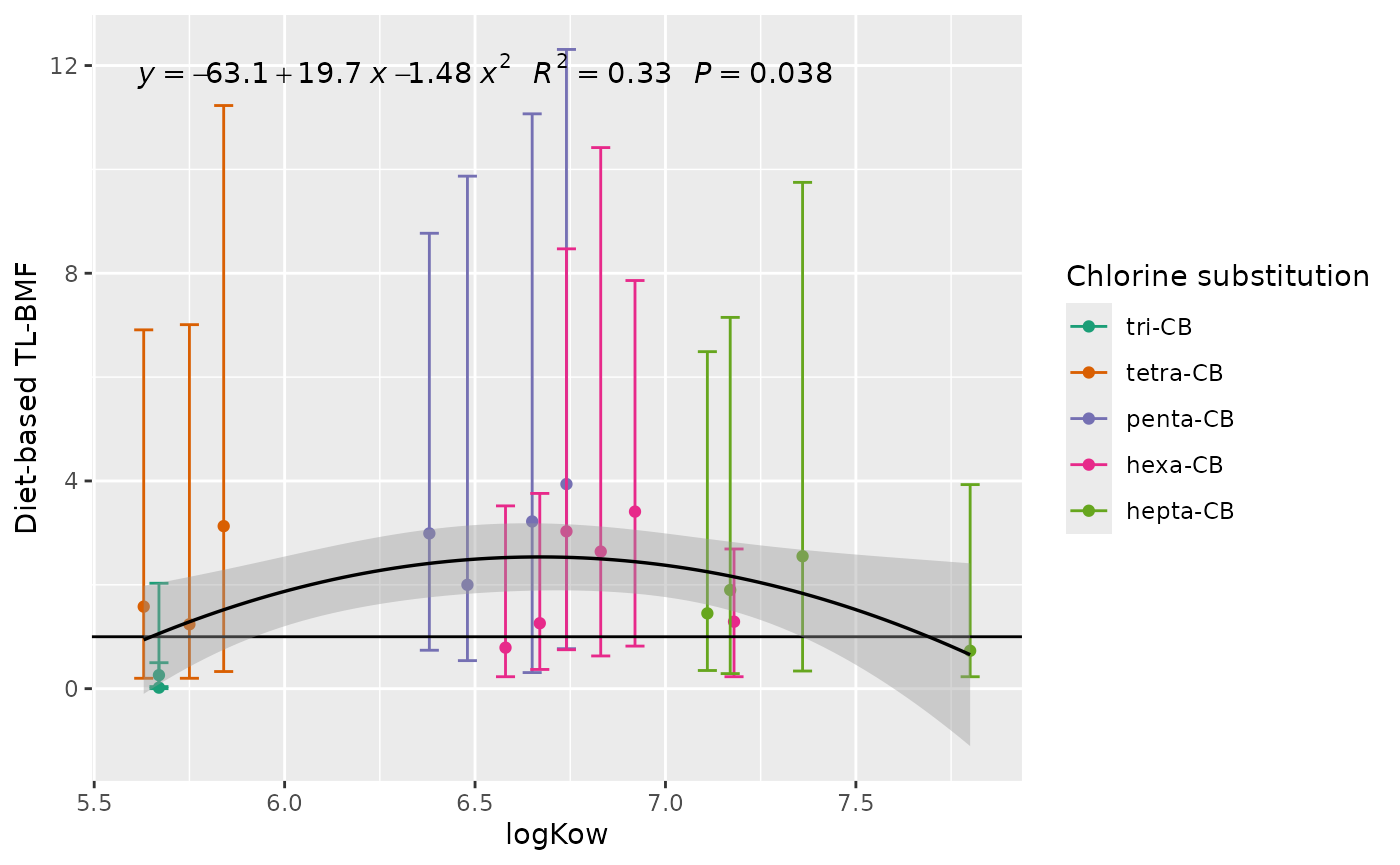
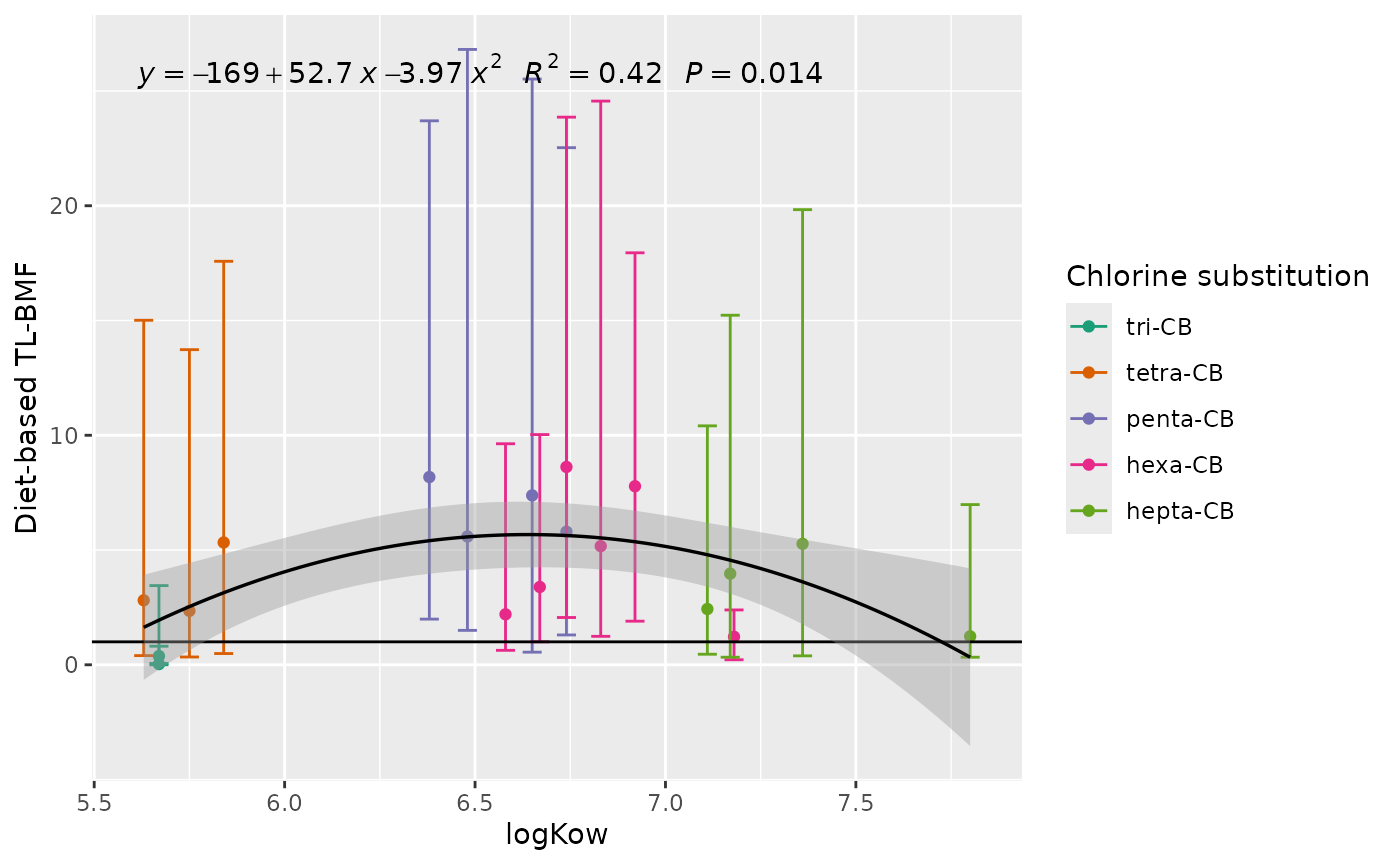
Deploying to gh-pages from @ FlorenceMounier/chopin.magnification@1e295617311cfe39d9b27906d3363bbed7bbcf30 🚀

diff --git a/articles/3.BMFs_PCB.html b/articles/3.BMFs_PCB.html
@@ -391,7 +391,7 @@
 <code class="sourceCode R"><span><span class="co"># rstudioapi::navigateToFile("../data-raw/3.3.BMF_TL_PCB_ng_glw.R")</span></span>
 <span><span class="fu">DT</span><span class="fu">::</span><span class="fu"><a href="https://rdrr.io/pkg/DT/man/datatable.html" class="external-link">datatable</a></span><span class="op">(</span><span class="va">BMF_TL_diet_all_PCB_ng_glw</span><span class="op">)</span></span></code></pre></div>
 <div class="datatables html-widget html-fill-item" id="htmlwidget-10b3b7155e8045a1b2ad" style="width:100%;height:auto;"></div>
-<script type="application/json" data-for="htmlwidget-10b3b7155e8045a1b2ad">{"x":{"filter":"none","vertical":false,"data":[["1","2","3","4","5","6","7","8","9","10","11","12","13","14","15","16","17","18","19","20"],["CB101","CB105","CB110","CB118","CB128","CB132","CB138","CB149","CB153","CB156","CB170","CB180","CB187","CB194","CB28","CB31","CB44","CB49","CB52","sumPCB"],[772.6,124.15,677.55,730.41,202.86,164.32,1158.09,741.5,2134.13,67.06,232.89,499.99,507.98,79.56999999999999,29.08,4.47,100.46,148.17,276.48,8654.84],[968.99,167.32,825.8099999999999,958.64,255.76,200.75,1473.97,853.86,2667.06,86.23,281.08,681.9,599.96,90.93000000000001,39.44,8.68,138.7,232.11,427.9,11494.79],[1190.78,208.69,1005.34,1117.26,287.61,233.8,1796.05,947.85,2926.74,90.56,348.8,783.8,656.14,104.4,57.27,18.47,201.85,283.35,547.14,12596.26],[568.01,91.95,460.55,474.68,138.81,152.19,807.9,603.52,1449.39,64.59999999999999,184.38,360.56,335.47,65.47,45,23.39,103.92,146.6,239.87,6692.32],[667.21,112.3,652.2,600.66,175.21,217.92,1058.92,788.15,1756.08,79.15000000000001,247.68,495.29,481.87,101,62.17,32.3,128.97,198.41,290.15,8613.77],[854.21,185.33,833.98,797.14,223.44,271.39,1352.86,1040.25,2287.89,111.35,333.57,719.8099999999999,772.0700000000001,132.25,84,44.98,173.74,254.61,404.72,10263.77],[0.74,0.31,0.54,0.77,0.75,0.23,0.63,0.37,0.82,0.23,0.35,0.34,0.29,0.23,0.04,0,0.2,0.2,0.33,0.61],[2.99,3.22,2,3.94,3.03,0.79,2.64,1.26,3.41,1.29,1.45,2.55,1.9,0.73,0.26,0.02,1.24,1.58,3.13,2.33],[8.77,11.07,9.869999999999999,12.31,8.470000000000001,3.52,10.42,3.76,7.86,2.69,6.49,9.75,7.15,3.93,2.03,0.5,7.01,6.91,11.23,6.39]],"container":"<table class=\"display\">\n  <thead>\n    <tr>\n      <th> <\/th>\n      <th>PCB<\/th>\n      <th>min_sole<\/th>\n      <th>median_sole<\/th>\n      <th>max_sole<\/th>\n      <th>min_diet<\/th>\n      <th>median_diet<\/th>\n      <th>max_diet<\/th>\n      <th>BMF_TL_min<\/th>\n      <th>BMF_TL_median<\/th>\n      <th>BMF_TL_max<\/th>\n    <\/tr>\n  <\/thead>\n<\/table>","options":{"columnDefs":[{"className":"dt-right","targets":[2,3,4,5,6,7,8,9,10]},{"orderable":false,"targets":0},{"name":" ","targets":0},{"name":"PCB","targets":1},{"name":"min_sole","targets":2},{"name":"median_sole","targets":3},{"name":"max_sole","targets":4},{"name":"min_diet","targets":5},{"name":"median_diet","targets":6},{"name":"max_diet","targets":7},{"name":"BMF_TL_min","targets":8},{"name":"BMF_TL_median","targets":9},{"name":"BMF_TL_max","targets":10}],"order":[],"autoWidth":false,"orderClasses":false}},"evals":[],"jsHooks":[]}</script>
+<script type="application/json" data-for="htmlwidget-10b3b7155e8045a1b2ad">{"x":{"filter":"none","vertical":false,"data":[["1","2","3","4","5","6","7","8","9","10","11","12","13","14","15","16","17","18","19","20"],["CB101","CB105","CB110","CB118","CB128","CB132","CB138","CB149","CB153","CB156","CB170","CB180","CB187","CB194","CB28","CB31","CB44","CB49","CB52","sumPCB"],[772.6,124.15,677.55,730.41,202.86,164.32,1158.09,741.5,2134.13,67.06,232.89,499.99,507.98,79.56999999999999,29.08,4.47,100.46,148.17,276.48,8654.84],[968.99,167.32,825.8099999999999,958.64,255.76,200.75,1473.97,853.86,2667.06,86.23,281.08,681.9,599.96,90.93000000000001,39.44,8.68,138.7,232.11,427.9,11494.79],[1190.78,208.69,1005.34,1117.26,287.61,233.8,1796.05,947.85,2926.74,90.56,348.8,783.8,656.14,104.4,57.27,18.47,201.85,283.35,547.14,12596.26],[404.69,69.16,327.63,386.33,97.52,108.01,603.05,431.89,1093.49,67.26000000000001,156.92,283.1,259.29,53.84,37.54,19.83,82.63,112.54,205.9,5224.13],[473.24,84.63,459.3,526.55,122.69,153.51,841.89,562.9,1325.4,80.66,207.8,386.83,374.96,84.40000000000001,54.7,27.89,103.67,163.12,241.88,6665.92],[610.8200000000001,152.62,589.41,667.74,158.59,192.04,1075.76,740.92,1715.92,111.95,303.24,686.46,744.5700000000001,116.23,75.64,42.04,145.31,201.84,353.21,8058.02],[1.99,0.55,1.5,1.3,2.06,0.63,1.24,1,1.9,0.22,0.46,0.39,0.33,0.33,0.06,0,0.34,0.4,0.49,1.23],[8.18,7.38,5.59,5.8,8.619999999999999,2.2,5.17,3.39,7.78,1.22,2.43,5.27,3.97,1.24,0.38,0.03,2.35,2.81,5.33,4.94],[23.7,25.52,26.81,22.53,23.86,9.630000000000001,24.56,10.03,17.95,2.39,10.41,19.83,15.23,6.98,3.45,0.8100000000000001,13.73,15.01,17.58,13.22]],"container":"<table class=\"display\">\n  <thead>\n    <tr>\n      <th> <\/th>\n      <th>PCB<\/th>\n      <th>min_sole<\/th>\n      <th>median_sole<\/th>\n      <th>max_sole<\/th>\n      <th>min_diet<\/th>\n      <th>median_diet<\/th>\n      <th>max_diet<\/th>\n      <th>BMF_TL_min<\/th>\n      <th>BMF_TL_median<\/th>\n      <th>BMF_TL_max<\/th>\n    <\/tr>\n  <\/thead>\n<\/table>","options":{"columnDefs":[{"className":"dt-right","targets":[2,3,4,5,6,7,8,9,10]},{"orderable":false,"targets":0},{"name":" ","targets":0},{"name":"PCB","targets":1},{"name":"min_sole","targets":2},{"name":"median_sole","targets":3},{"name":"max_sole","targets":4},{"name":"min_diet","targets":5},{"name":"median_diet","targets":6},{"name":"max_diet","targets":7},{"name":"BMF_TL_min","targets":8},{"name":"BMF_TL_median","targets":9},{"name":"BMF_TL_max","targets":10}],"order":[],"autoWidth":false,"orderClasses":false}},"evals":[],"jsHooks":[]}</script>
 </div>
 <div class="section level3">
 <h3 id="graph-bmfs-per-cbs-1">Graph BMFs per CBs<a class="anchor" aria-label="anchor" href="#graph-bmfs-per-cbs-1"></a>
@@ -446,7 +446,7 @@
 <div class="sourceCode" id="cb37"><pre class="downlit sourceCode r">
 <code class="sourceCode R"><span><span class="fu">DT</span><span class="fu">::</span><span class="fu"><a href="https://rdrr.io/pkg/DT/man/datatable.html" class="external-link">datatable</a></span><span class="op">(</span><span class="va">BMF_compare</span><span class="op">)</span></span></code></pre></div>
 <div class="datatables html-widget html-fill-item" id="htmlwidget-4018eef1a407a0df6b52" style="width:100%;height:auto;"></div>
-<script type="application/json" data-for="htmlwidget-4018eef1a407a0df6b52">{"x":{"filter":"none","vertical":false,"data":[["1","2","3","4","5","6","7","8","9","10","11","12","13","14","15","16","17","18","19","20","21","22","23","24","25","26","27","28","29","30","31","32","33","34","35","36","37","38","39","40","41","42","43","44","45","46","47","48","49","50","51","52","53","54","55","56","57","58","59","60","61","62","63","64","65","66","67","68","69","70","71","72","73","74","75","76","77","78","79","80"],["sumPCB","CB28","CB31","CB44","CB49","CB52","CB101","CB105","CB110","CB118","CB128","CB132","CB138","CB149","CB153","CB156","CB170","CB180","CB187","CB194","CB101","CB105","CB110","CB118","CB128","CB132","CB138","CB149","CB153","CB156","CB170","CB180","CB187","CB194","CB28","CB31","CB44","CB49","CB52","sumPCB","sumPCB","CB28","CB31","CB44","CB49","CB52","CB101","CB105","CB110","CB118","CB128","CB132","CB138","CB149","CB153","CB156","CB170","CB180","CB187","CB194","CB101","CB105","CB110","CB118","CB128","CB132","CB138","CB149","CB153","CB156","CB170","CB180","CB187","CB194","CB28","CB31","CB44","CB49","CB52","sumPCB"],[0.77,0.37,0.12,0.54,0.54,0.63,0.73,0.66,0.65,0.87,0.72,0.5,0.79,0.65,0.83,0.72,0.72,0.75,0.73,0.57,1.26,0.8100000000000001,1.15,1.09,1.28,0.86,1.08,1,1.24,0.6,0.77,0.73,0.68,0.68,0.38,0.11,0.6899999999999999,0.73,0.78,1.07,0.71,0.36,0.14,0.46,0.43,0.62,0.72,0.58,0.59,0.8,0.62,0.44,0.74,0.61,0.78,0.68,0.64,0.65,0.66,0.5,0.74,0.31,0.54,0.77,0.75,0.23,0.63,0.37,0.82,0.23,0.35,0.34,0.29,0.23,0.04,0,0.2,0.2,0.33,0.61],[1.05,0.63,0.3,0.8100000000000001,0.98,1.21,1.02,0.99,0.89,1.16,0.95,0.68,1.03,0.77,1.1,1.04,1.11,1.16,0.93,0.77,2.05,1.98,1.8,1.82,2.08,1.31,1.75,1.52,2.01,1.07,1.35,1.76,1.6,1.08,0.72,0.31,1.34,1.42,1.77,1.72,1.05,0.48,0.26,0.68,0.82,1.15,1.06,0.88,0.83,1.12,0.9,0.54,1.01,0.75,1.09,0.97,0.83,1.1,0.84,0.66,2.99,3.22,2,3.94,3.03,0.79,2.64,1.26,3.41,1.29,1.45,2.55,1.9,0.73,0.26,0.02,1.24,1.58,3.13,2.33],[1.15,0.93,0.72,1.4,1.32,1.63,1.41,1.34,1.19,1.52,1.16,0.89,1.35,0.98,1.28,1.32,1.64,1.71,1.02,1.14,2.94,3.02,3.07,2.89,2.95,2.16,2.98,2.19,2.68,1.35,2.22,2.77,2.53,1.94,1.53,0.93,2.44,2.52,2.66,2.41,1.31,0.77,0.4,1.31,1.29,1.74,1.4,1.37,1.1,1.62,1.31,0.7,1.64,0.92,1.3,1.16,1.58,1.36,0.9399999999999999,1.14,8.77,11.07,9.869999999999999,12.31,8.470000000000001,3.52,10.42,3.76,7.86,2.69,6.49,9.75,7.15,3.93,2.03,0.5,7.01,6.91,11.23,6.39],["species","species","species","species","species","species","species","species","species","species","species","species","species","species","species","species","species","species","species","species","diet","diet","diet","diet","diet","diet","diet","diet","diet","diet","diet","diet","diet","diet","diet","diet","diet","diet","diet","diet","TL_species","TL_species","TL_species","TL_species","TL_species","TL_species","TL_species","TL_species","TL_species","TL_species","TL_species","TL_species","TL_species","TL_species","TL_species","TL_species","TL_species","TL_species","TL_species","TL_species","TL_diet","TL_diet","TL_diet","TL_diet","TL_diet","TL_diet","TL_diet","TL_diet","TL_diet","TL_diet","TL_diet","TL_diet","TL_diet","TL_diet","TL_diet","TL_diet","TL_diet","TL_diet","TL_diet","TL_diet"]],"container":"<table class=\"display\">\n  <thead>\n    <tr>\n      <th> <\/th>\n      <th>PCB<\/th>\n      <th>min<\/th>\n      <th>median<\/th>\n      <th>max<\/th>\n      <th>type<\/th>\n    <\/tr>\n  <\/thead>\n<\/table>","options":{"columnDefs":[{"className":"dt-right","targets":[2,3,4]},{"orderable":false,"targets":0},{"name":" ","targets":0},{"name":"PCB","targets":1},{"name":"min","targets":2},{"name":"median","targets":3},{"name":"max","targets":4},{"name":"type","targets":5}],"order":[],"autoWidth":false,"orderClasses":false}},"evals":[],"jsHooks":[]}</script><div class="sourceCode" id="cb38"><pre class="downlit sourceCode r">
+<script type="application/json" data-for="htmlwidget-4018eef1a407a0df6b52">{"x":{"filter":"none","vertical":false,"data":[["1","2","3","4","5","6","7","8","9","10","11","12","13","14","15","16","17","18","19","20","21","22","23","24","25","26","27","28","29","30","31","32","33","34","35","36","37","38","39","40","41","42","43","44","45","46","47","48","49","50","51","52","53","54","55","56","57","58","59","60","61","62","63","64","65","66","67","68","69","70","71","72","73","74","75","76","77","78","79","80"],["sumPCB","CB28","CB31","CB44","CB49","CB52","CB101","CB105","CB110","CB118","CB128","CB132","CB138","CB149","CB153","CB156","CB170","CB180","CB187","CB194","CB101","CB105","CB110","CB118","CB128","CB132","CB138","CB149","CB153","CB156","CB170","CB180","CB187","CB194","CB28","CB31","CB44","CB49","CB52","sumPCB","sumPCB","CB28","CB31","CB44","CB49","CB52","CB101","CB105","CB110","CB118","CB128","CB132","CB138","CB149","CB153","CB156","CB170","CB180","CB187","CB194","CB101","CB105","CB110","CB118","CB128","CB132","CB138","CB149","CB153","CB156","CB170","CB180","CB187","CB194","CB28","CB31","CB44","CB49","CB52","sumPCB"],[0.77,0.37,0.12,0.54,0.54,0.63,0.73,0.66,0.65,0.87,0.72,0.5,0.79,0.65,0.83,0.72,0.72,0.75,0.73,0.57,1.26,0.8100000000000001,1.15,1.09,1.28,0.86,1.08,1,1.24,0.6,0.77,0.73,0.68,0.68,0.38,0.11,0.6899999999999999,0.73,0.78,1.07,0.71,0.36,0.14,0.46,0.43,0.62,0.72,0.58,0.59,0.8,0.62,0.44,0.74,0.61,0.78,0.68,0.64,0.65,0.66,0.5,1.99,0.55,1.5,1.3,2.06,0.63,1.24,1,1.9,0.22,0.46,0.39,0.33,0.33,0.06,0,0.34,0.4,0.49,1.23],[1.05,0.63,0.3,0.8100000000000001,0.98,1.21,1.02,0.99,0.89,1.16,0.95,0.68,1.03,0.77,1.1,1.04,1.11,1.16,0.93,0.77,2.05,1.98,1.8,1.82,2.08,1.31,1.75,1.52,2.01,1.07,1.35,1.76,1.6,1.08,0.72,0.31,1.34,1.42,1.77,1.72,1.05,0.48,0.26,0.68,0.82,1.15,1.06,0.88,0.83,1.12,0.9,0.54,1.01,0.75,1.09,0.97,0.83,1.1,0.84,0.66,8.18,7.38,5.59,5.8,8.619999999999999,2.2,5.17,3.39,7.78,1.22,2.43,5.27,3.97,1.24,0.38,0.03,2.35,2.81,5.33,4.94],[1.15,0.93,0.72,1.4,1.32,1.63,1.41,1.34,1.19,1.52,1.16,0.89,1.35,0.98,1.28,1.32,1.64,1.71,1.02,1.14,2.94,3.02,3.07,2.89,2.95,2.16,2.98,2.19,2.68,1.35,2.22,2.77,2.53,1.94,1.53,0.93,2.44,2.52,2.66,2.41,1.31,0.77,0.4,1.31,1.29,1.74,1.4,1.37,1.1,1.62,1.31,0.7,1.64,0.92,1.3,1.16,1.58,1.36,0.9399999999999999,1.14,23.7,25.52,26.81,22.53,23.86,9.630000000000001,24.56,10.03,17.95,2.39,10.41,19.83,15.23,6.98,3.45,0.8100000000000001,13.73,15.01,17.58,13.22],["species","species","species","species","species","species","species","species","species","species","species","species","species","species","species","species","species","species","species","species","diet","diet","diet","diet","diet","diet","diet","diet","diet","diet","diet","diet","diet","diet","diet","diet","diet","diet","diet","diet","TL_species","TL_species","TL_species","TL_species","TL_species","TL_species","TL_species","TL_species","TL_species","TL_species","TL_species","TL_species","TL_species","TL_species","TL_species","TL_species","TL_species","TL_species","TL_species","TL_species","TL_diet","TL_diet","TL_diet","TL_diet","TL_diet","TL_diet","TL_diet","TL_diet","TL_diet","TL_diet","TL_diet","TL_diet","TL_diet","TL_diet","TL_diet","TL_diet","TL_diet","TL_diet","TL_diet","TL_diet"]],"container":"<table class=\"display\">\n  <thead>\n    <tr>\n      <th> <\/th>\n      <th>PCB<\/th>\n      <th>min<\/th>\n      <th>median<\/th>\n      <th>max<\/th>\n      <th>type<\/th>\n    <\/tr>\n  <\/thead>\n<\/table>","options":{"columnDefs":[{"className":"dt-right","targets":[2,3,4]},{"orderable":false,"targets":0},{"name":" ","targets":0},{"name":"PCB","targets":1},{"name":"min","targets":2},{"name":"median","targets":3},{"name":"max","targets":4},{"name":"type","targets":5}],"order":[],"autoWidth":false,"orderClasses":false}},"evals":[],"jsHooks":[]}</script><div class="sourceCode" id="cb38"><pre class="downlit sourceCode r">
 <code class="sourceCode R"><span><span class="va">BMF_compare_output</span> <span class="op">&lt;-</span> <span class="va">BMF_compare</span> <span class="op">|&gt;</span> </span>
 <span>  <span class="fu">pivot_wider</span><span class="op">(</span>names_from <span class="op">=</span> <span class="va">type</span>, values_from <span class="op">=</span> <span class="fu"><a href="https://rdrr.io/r/base/c.html" class="external-link">c</a></span><span class="op">(</span><span class="va">min</span>, <span class="va">median</span>, <span class="va">max</span><span class="op">)</span><span class="op">)</span> <span class="op">|&gt;</span> </span>
 <span>  <span class="fu">mutate</span><span class="op">(</span>BMF_species <span class="op">=</span> <span class="fu"><a href="https://rdrr.io/r/base/paste.html" class="external-link">paste0</a></span><span class="op">(</span><span class="va">median_species</span>, <span class="st">" ["</span>, <span class="va">min_species</span>, <span class="st">"-"</span>, <span class="va">max_species</span>, <span class="st">"]"</span><span class="op">)</span>,</span>
